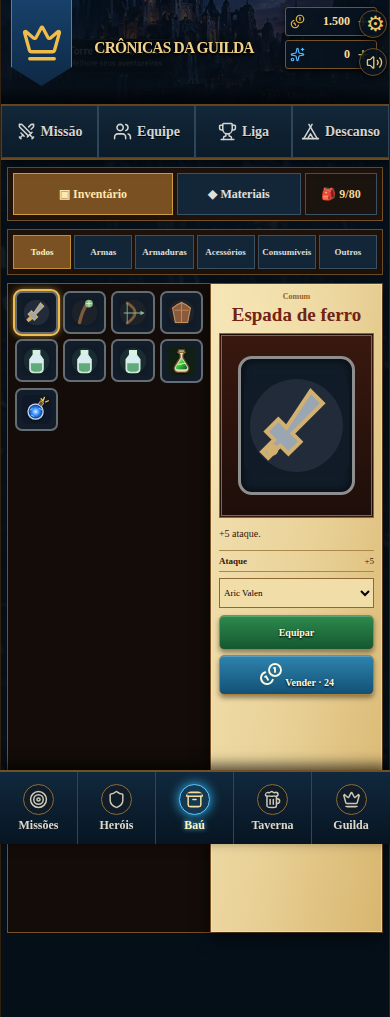
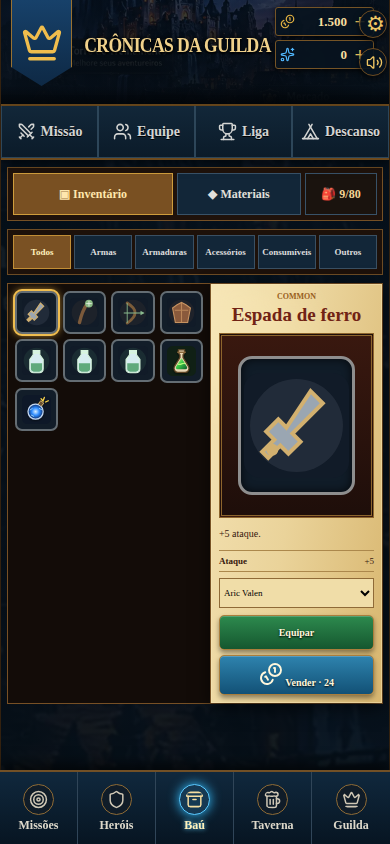
Corrige sobreposição da batalha e compacta o Baú no mobile

diff --git a/app/game-client.tsx b/app/game-client.tsx
@@ -35,15 +35,6 @@ const specialtyNames: Record<string,string> = {
   undead:"Mago / Paladino", boss:"Equipe completa"
 };
 const specialtyName = (value: string) => specialtyNames[value] || value;
-const rarityNames: Record<string,string> = {
-  common:"Comum", uncommon:"Incomum", rare:"Raro", epic:"Épico", legendary:"Lendário"
-};
-const statusNames: Record<string,string> = {
-  bleed:"Sangramento", poison:"Veneno", stun:"Atordoado", shield:"Escudo",
-  regen:"Regeneração", taunt:"Provocado", inspired:"Inspirado", vulnerable:"Vulnerável"
-};
-const rarityLabel = (value: string) => rarityNames[value] || value;
-const statusLabel = (value: string) => statusNames[value] || value;
 const CORE_RACE_NAMES: Record<string,string> = {
   aric:"Humano", lyra:"Elfa", elen:"Anão", kael:"Meio-Elfa", sora:"Elfo", doran:"Draconato"
 };
@@ -527,7 +518,7 @@ function ChestPage({ state, act, busy }: { state: Campaign; act: (a: Action) => 
         <ItemArt itemKey={item.key} /><span>{ITEMS[item.key].name}</span>{item.equippedTo && <b>✓</b>}
       </button>)}</div>
       {selected && def ? <article className="item-detail parchment">
-        <span className="rarity-label">{rarityLabel(def.rarity)}</span><h2>{def.name}</h2>
+        <span className="rarity-label">{def.rarity.toUpperCase()}</span><h2>{def.name}</h2>
         <div className="selected-item-art"><ItemArt itemKey={selected.key} /></div>
         <p>{def.description}</p>
         <div className="item-stats">{([["Ataque",def.attack],["Defesa",def.defense],["Magia",def.magic],["Vida",def.hp],["Velocidade",def.speed]] as Array<[string,number|undefined]>).filter(([,v]) => v).map(([k,v]) => <span key={k}><b>{k}</b><em>+{v}</em></span>)}</div>
@@ -643,7 +634,7 @@ function BattleOverlay({ state, expedition, act, close, busy }: {
       <div className="battle-stage">
         <div className="fighters allies">{heroes.map(f => <article key={f.id}><HeroPortrait hero={{id:f.id,name:f.name,class:f.class || "warrior"}}/><div><strong>{f.name}</strong><small>{f.class ? CLASSES[f.class].name : "Herói"}</small><ProgressBar value={f.maxHp ? f.hp/f.maxHp*100 : 0} tone="red"/><span>{f.hp}/{f.maxHp}</span></div></article>)}</div>
         <div className="battle-center-mark"><Swords /></div>
-        <div className="fighters enemies">{enemies.map(f => <article key={f.id}><img src={"/enemies/" + enemyArtKey(f.name) + ".webp"} alt="" /><div><strong>{f.name}</strong><small>{f.statuses?.map(s=>statusLabel(s.kind)).join(" · ") || "Inimigo"}</small><ProgressBar value={f.maxHp ? f.hp/f.maxHp*100 : 0} tone="red"/><span>{f.hp}/{f.maxHp}</span></div></article>)}</div>
+        <div className="fighters enemies">{enemies.map(f => <article key={f.id}><img src={"/enemies/" + enemyArtKey(f.name) + ".webp"} alt="" /><div><strong>{f.name}</strong><small>{f.statuses?.map(s=>s.kind).join(" · ") || "Inimigo"}</small><ProgressBar value={f.maxHp ? f.hp/f.maxHp*100 : 0} tone="red"/><span>{f.hp}/{f.maxHp}</span></div></article>)}</div>
       </div>
       <div className="battle-log parchment">{battle.log.slice(-5).map((l,i) => <p key={i} data-kind={l.kind}>{l.text}</p>)}{!battle.log.length && <p>Os combatentes tomam posição.</p>}</div>
       <div className="consumable-title"><Archive /> Consumíveis</div>
@@ -679,12 +670,6 @@ export default function Game() {
   const saveRef = useRef<Save | null>(null);
   const fileRef = useRef<HTMLInputElement>(null);
   const { musicEnabled, toggleMusic } = useAmbientRpgMusic();
-
-  useEffect(() => {
-    if (!flash) return;
-    const timer = window.setTimeout(() => setFlash(""), 2200);
-    return () => window.clearTimeout(timer);
-  }, [flash]);
 
   const hydrate = useCallback((body: Save) => {
     setSave(body); saveRef.current = body;
@@ -726,6 +711,12 @@ export default function Game() {
       setError(e instanceof Error ? e.message : "A ação não pôde ser concluída.");
     } finally { setBusy(false); }
   },[busy,hydrate]);
+
+  useEffect(() => {
+    if (!flash) return;
+    const timer = window.setTimeout(() => setFlash(""), 1800);
+    return () => window.clearTimeout(timer);
+  }, [flash]);
 
   const state = save?.state;
   const running = state ? activeExpeditions(state) : [];

diff --git a/app/ui.css b/app/ui.css
@@ -751,7 +751,7 @@ img{display:block;max-width:100%}
 .inventory-layout{
   display:grid;
   grid-template-columns:54% 46%;
-  min-height:650px;
+  min-height:0;
   background:#130c08;
   border:1px solid #775025;
 }
@@ -1004,21 +1004,16 @@ img{display:block;max-width:100%}
   position:fixed;
   left:50%;
   top:0;
-  bottom:0;
+  bottom:var(--bottom-h);
   width:min(100vw,var(--max-app));
   transform:translateX(-50%);
-  z-index:160;
+  z-index:70;
   overflow:auto;
   overscroll-behavior:contain;
   background:#06101a;
   border-inline:1px solid #503719;
 }
-.battle-sheet{
-  min-height:100dvh;
-  padding-bottom:max(8px,env(safe-area-inset-bottom));
-  color:#f2dfb3;
-  background:#06101a
-}
+.battle-sheet{min-height:100%;color:#f2dfb3;background:#06101a}
 .battle-top{
   min-height:52px;
   display:flex;
@@ -1150,21 +1145,8 @@ img{display:block;max-width:100%}
 }
 .battle-consumables .item-art{grid-row:1/3;width:38px;height:38px}
 .battle-consumables b{position:absolute;right:3px;top:2px;padding:1px 4px;border-radius:4px;background:#0a0b0c;color:#fff;font-size:8px}
-.battle-consumables strong{
-  align-self:end;
-  font-size:8px;
-  line-height:1.05;
-  white-space:normal;
-  overflow-wrap:anywhere;
-}
-.battle-consumables small{
-  align-self:start;
-  font-size:7px;
-  line-height:1.08;
-  color:#c8c2b4;
-  white-space:normal;
-  overflow-wrap:anywhere;
-}
+.battle-consumables strong{align-self:end;font-size:8px}
+.battle-consumables small{align-self:start;font-size:7px;line-height:1.08;color:#c8c2b4}
 .battle-actions{display:grid;grid-template-columns:1fr 1fr;gap:5px;padding:7px;background:#07121c}
 .battle-actions .action-button{min-height:36px}
 .battle-actions .huge{grid-column:1/-1}
@@ -1252,16 +1234,10 @@ img{display:block;max-width:100%}
 @media (max-width:430px){
   :root{--header-h:106px;--topnav-h:54px;--bottom-h:74px}
   .header-banner{left:10px;width:61px;height:86px}
-  .header-title{
-    left:68px;right:110px;top:39px;
-    font-size:clamp(15px,4.4vw,18px);
-    letter-spacing:-.05em;
-    transform:scaleX(.9);
-    transform-origin:center;
-  }
-  .header-resources{right:12px;width:92px}
+  .header-title{left:61px;right:96px;top:35px;font-size:20px;transform:scaleX(.88)}
+  .header-resources{right:15px;width:99px}
   .header-resources button{height:29px}
-  .header-resources strong{font-size:12px}
+  .header-resources strong{font-size:13px}
   .top-nav button{font-size:14px;gap:5px}
   .top-nav button svg{width:19px;height:19px}
   .game-content{padding:7px 6px calc(var(--bottom-h) + 10px)}
